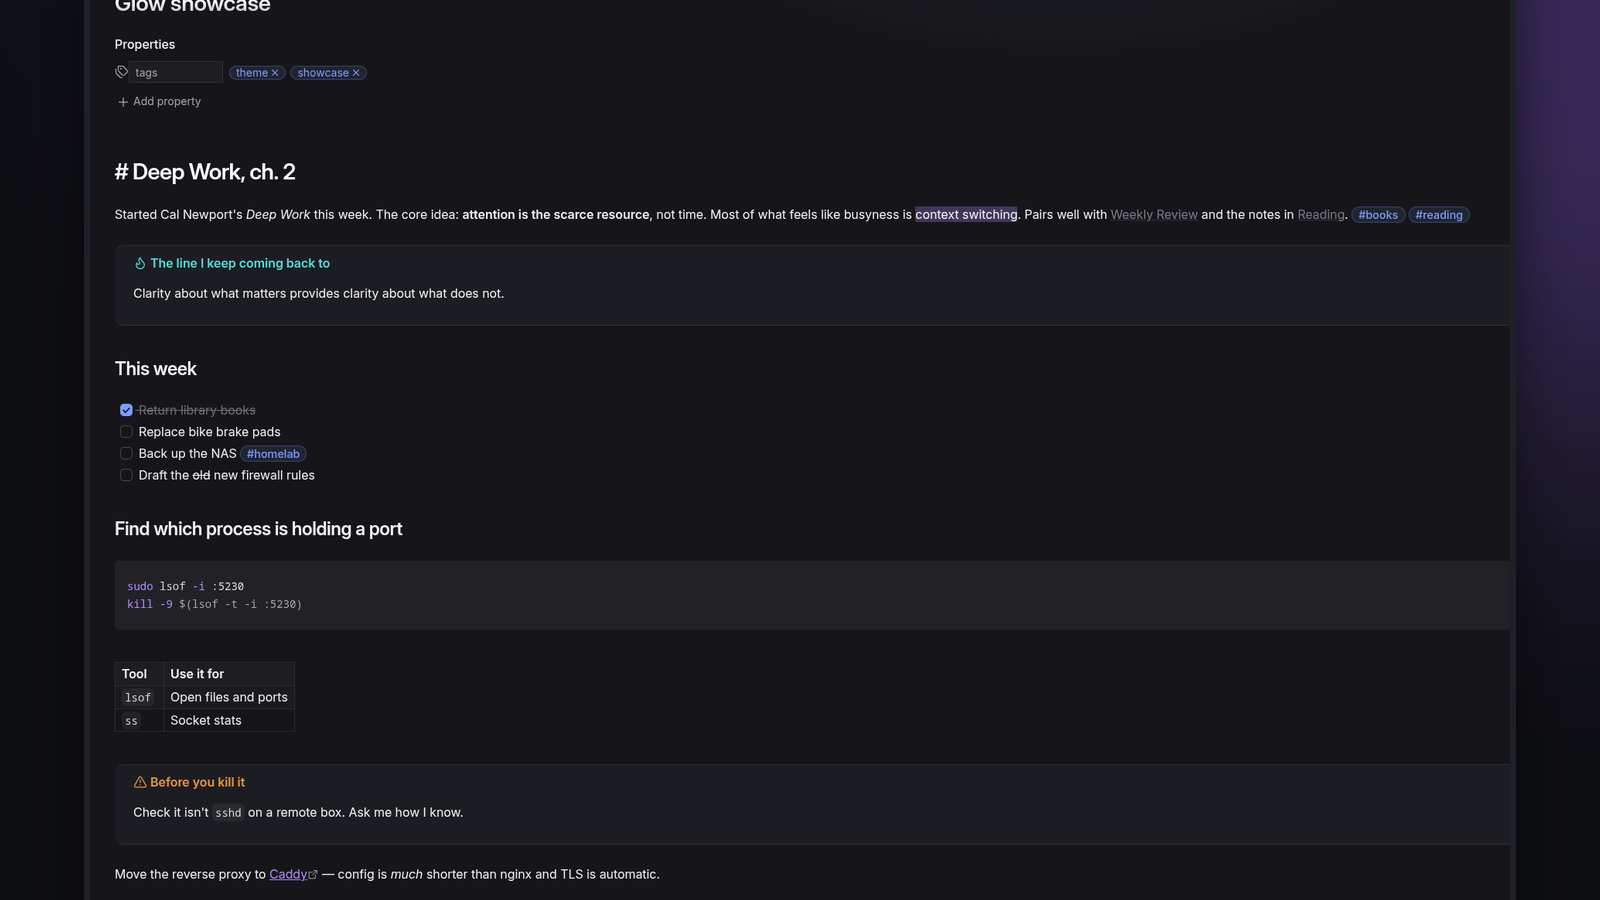
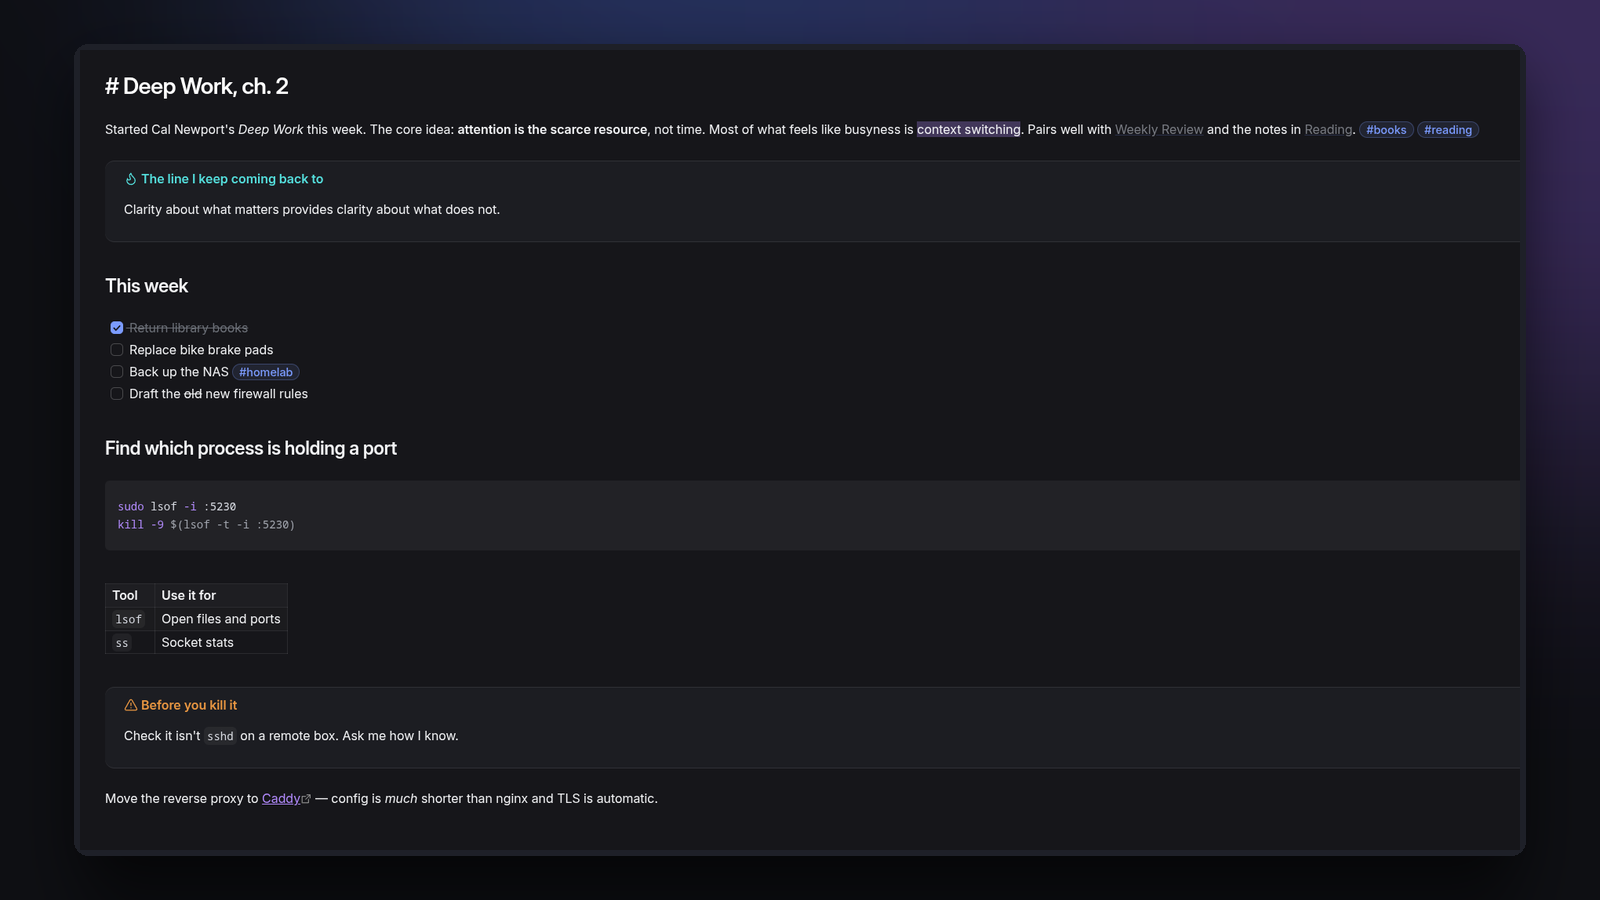
README: poster first, clean note shot before Install

Changed region(s): [[0.0625, 0.0, 0.9688, 0.2489], [0.0312, 0.28, 0.4062, 0.9956], [0.9375, 0.84, 0.9688, 0.9956]]

diff --git a/README.md b/README.md
@@ -1,5 +1,5 @@
 <p align="center">
-  <a href="https://real-fruit-snacks.github.io/obsidian-glow/"><img src="docs/assets/hero-dark.png" alt="Glow theme for Obsidian, dark mode" width="100%"></a>
+  <a href="https://real-fruit-snacks.github.io/obsidian-glow/"><img src="docs/assets/screenshot.png" alt="Glow theme for Obsidian" width="100%"></a>
 </p>
 
 # Glow
@@ -7,10 +7,6 @@
 A dark theme for Obsidian: deep charcoal surfaces, a soft radial light behind your notes, and a periwinkle-to-violet accent. Quiet borders, rounded panels, nothing shouting.
 
 Made to pair with [Thoughtbin](https://github.com/Real-Fruit-Snacks/obsidian-Thoughtbin), but it stands on its own. A matching light mode is included.
-
-<p align="center">
-  <img src="docs/assets/screenshot.png" alt="Glow in dark and light mode" width="100%">
-</p>
 
 ## Features
 
@@ -21,6 +17,10 @@ Made to pair with [Thoughtbin](https://github.com/Real-Fruit-Snacks/obsidian-Tho
 - Full syntax colour set for code blocks
 - Mobile-aware toolbars and navigation
 - Uses Geist and Geist Mono if installed, with clean system fallbacks
+
+<p align="center">
+  <img src="docs/assets/hero-dark.png" alt="A note in Glow, dark mode" width="100%">
+</p>
 
 ## Install
 
